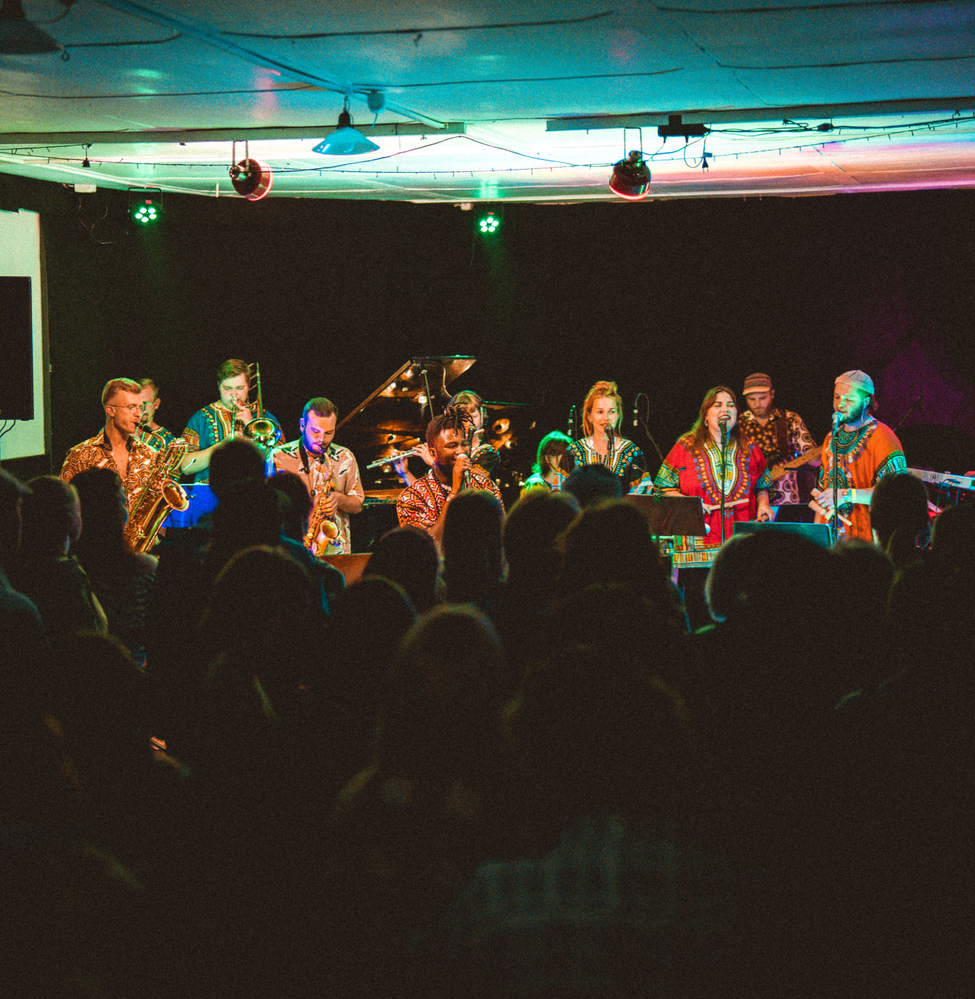
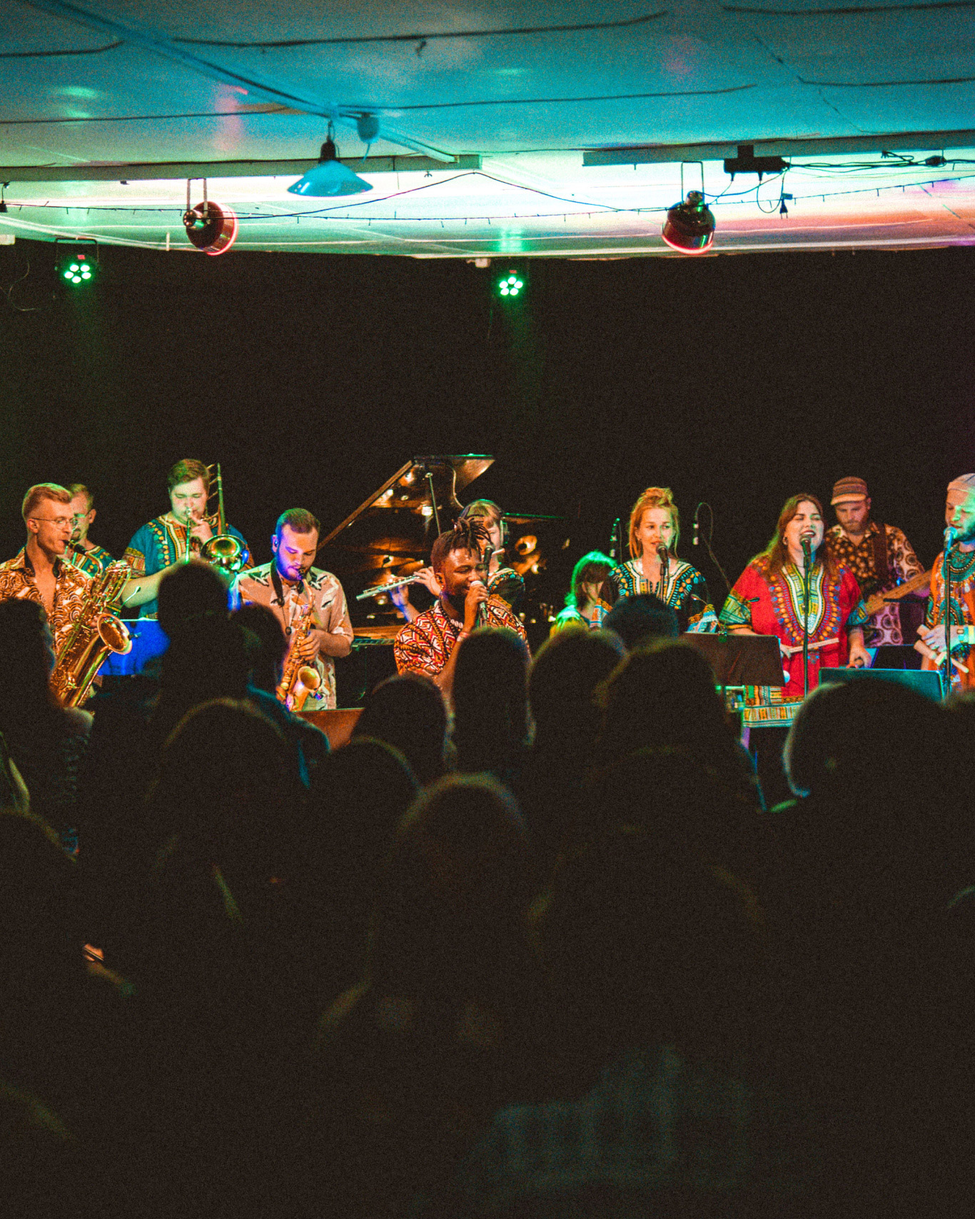
gallery update

diff --git a/v3/css/style.scss b/v3/css/style.scss
@@ -2,7 +2,7 @@
 
 @import url('https://fonts.googleapis.com/css2?family=Noto+Serif:wght@400;700&display=swap');
 
-$color-whiteMana: #EFF0EB; //#EBEFDC
+$color-notThatWhite: #EFF0EB; //#EBEFDC
 $color-orange: #F16142;
 $color-liquen: #10BAAD;
 $color-white: #FAFAFA;
@@ -22,7 +22,7 @@ body {
     padding: 0;    
     // background: url('../assets/dust_scratches.png') repeat;
     // background-blend-mode: multiply;
-    background-color: $color-whiteMana;
+    background-color: $color-notThatWhite;
     
     &#splash {
         overflow: hidden;
@@ -127,7 +127,7 @@ a {
     // margin: 0 auto;
     background: $color-black;
     border: 1px solid $color-black;
-    border-radius: 8px;
+    border-radius: 13px;
     color: $color-white;
     cursor: pointer;
     letter-spacing: 0.05em;  
@@ -135,7 +135,7 @@ a {
     padding: 12px 5%;
     
     &:hover {
-        color: $color-whiteMana;
+        color: $color-notThatWhite;
         background: $color-orange;
         border-color: $color-orange;
         -webkit-transition: all 250ms ease-out;
@@ -228,7 +228,7 @@ footer {
     }
 
     p, span {
-        color: $color-whiteMana;
+        color: $color-notThatWhite;
     }
 
     .locations {
@@ -313,10 +313,40 @@ section {
         
         &.gallery {
             position: relative;
-            overflow: hidden;
+            overflow: hidden;            
 
-            img.cover {
+            .galleryItem {
+                min-height: 520px;
                 width: 100%;
+                height: 100%;
+
+                background-size: cover;
+                background-repeat: no-repeat;
+
+                display: flex;
+                justify-content: center;
+                align-items: flex-end;
+                padding-bottom: 40px;;
+
+                .caption {
+                    color: $color-notThatWhite;
+                    display: flex;
+                    flex-direction: column;
+                    gap: 8px;
+
+                    span {
+                        font-family: 'Inter', helvetica, sans-serif;
+                        font-weight: 300;
+                        font-size: 16px;
+                        line-height: 19px;
+                        text-align: center;
+                        letter-spacing: 0.18em;
+                        
+                        &.event {
+                            font-weight: 700;
+                        }
+                    }
+                }
             }
         }
     }
@@ -338,10 +368,12 @@ section {
             }
 
             &.gallery {
-                img.cover {
-                    width: auto;
-                    height: 100vh;
-                    // margin: 0 -5%;
+                .galleryItem {
+                    min-height: 854px;
+
+                    .caption {
+                        flex-direction: row;
+                    }
                 }
             }
         }
@@ -361,18 +393,19 @@ section.hero {
     }
 
     h2, p {
-        color: $color-whiteMana; 
+        color: $color-notThatWhite; 
         text-align: center;       
     }    
 
     .button {
         color: $color-black;
-        background: $color-whiteMana;
-        border-color: $color-whiteMana;
+        background: $color-notThatWhite;
+        border-color: $color-notThatWhite;
     }
 
     @media screen and (min-width: 600px) {
-        background-image: linear-gradient(0deg, rgba(0, 0, 0, 0.36), rgba(0, 0, 0, 0.36)), url('/v3/assets/studio_landscape.jpg');
+        background: radial-gradient(50% 50% at 50% 50%, rgba(16, 16, 15, 0.56) 42%, rgba(16, 16, 15, 0.09) 75%), url('/v3/assets/studio_landscape.jpg');
+        background-size: cover;
         
         p {
             width: 70%;
@@ -396,7 +429,7 @@ section.color {
     box-shadow: inset 0px 4px 36px rgba(16, 16, 15, 0.18);
 
     h2, p {
-        color: $color-whiteMana;
+        color: $color-notThatWhite;
     }
 
     h5 {
@@ -405,14 +438,14 @@ section.color {
 
     .button {
         color: $color-orange;
-        background: $color-whiteMana;
-        border-color: $color-whiteMana;
+        background: $color-notThatWhite;
+        border-color: $color-notThatWhite;
 
         &:hover {
-            color: $color-whiteMana;
+            color: $color-notThatWhite;
             background: rgba(255,255,255,.09);
-            border-color: $color-whiteMana;
-            box-shadow: 0px 0px 4px $color-whiteMana;
+            border-color: $color-notThatWhite;
+            box-shadow: 0px 0px 4px $color-notThatWhite;
             backdrop-filter: blur(2px);
         }
     }

diff --git a/v3/index.html b/v3/index.html
@@ -21,8 +21,8 @@
                 <div class="col center">
                     <img class="logo" src="/v3/assets/logo_sama_no_text_white.svg"/>
                     <h2>samasama is open</h2>
-                    <p class="">A space to turn your ideas into reallity.<br>Host your event in the living room of Viljandi.</p>
-                    <a href="#" target="_blank" class="button">Book now!</a>
+                    <p class="">A space to turn your ideas into reallity. Host your event in the living room of Viljandi.</p>
+                    <a href="mailto:jose@samasama.studio" target="_blank" class="button">Book now!</a>
                 </div>      
             </section>
             
@@ -39,12 +39,18 @@
                         <br><br>
                         Music and audio equipment available for renting. 
                     </p>
-                    <a href="#" target="_blank" class="button">Book an event</a>
+                    <a href="mailto:jose@samasama.studio" target="_blank" class="button">Book an event</a>
                 </div>            
-                <div class="col right gallery">
-                    <img class="cover" :src="currentGalleryItem"/>
-                        <button class="arrow prev" @click="showGallery(-1)"><img src="assets/icons/leftArrow.svg"/></button>
-                        <button class="arrow next" @click="showGallery(1)"><img src="assets/icons/rightArrow.svg"/></button>
+                <div class="col right gallery">                    
+                    <div class="galleryItem"  :style="{ backgroundImage: 'url(' + currentGalleryItem.image + ')'}">
+                        <div class="caption">
+                            <span class="client">{{ currentGalleryItem.client }}</span>
+                            <span class="event">{{ currentGalleryItem.event }}</span> 
+                        </div>
+                        <!-- <img class="cover" :src="currentGalleryItem.image"/> -->
+                    </div>
+                    <button class="arrow prev" @click="showGallery(-1)"><img src="assets/icons/leftArrow.svg"/></button>
+                    <button class="arrow next" @click="showGallery(1)"><img src="assets/icons/rightArrow.svg"/></button>
                 </div>
             </section>
             
@@ -62,14 +68,15 @@
                         <br><br>
                         Check out our top projects.
                     </p>
-                    <a href="#" target="_blank" class="button">Let’s work together</a>
+                    <a href="mailto:hello@samasama.studio" target="_blank" class="button">Let’s work together</a>
                 </div>            
             </section>
             
             <section class="portfolio">
                 <!-- <div class="project" v-for="item in projects"> -->
                     <div class="col left gallery">
-                        <img class="cover" :src="currentProject.image"/>
+                        <div class="galleryItem"  :style="{ backgroundImage: 'url(' + currentProject.image + ')'}"></div>
+
                         <button class="arrow prev" @click="showProject(-1)"><img src="assets/icons/leftArrow.svg"/></button>
                         <button class="arrow next" @click="showProject(1)"><img src="assets/icons/rightArrow.svg"/></button>
                     </div>
@@ -101,7 +108,7 @@
                         <p>De las Margaritas 6195<br>Ciudad Jardín, Argentina<br>🇦🇷</p>
                     </div>
                 </div>
-                <span class="copyright">Copyright &copy; 2022, with love by Sama Sama</span>
+                <span class="copyright">&copy; with love by Sama Sama</span>
             </footer>
         
         </div>

diff --git a/v3/css/style.css b/v3/css/style.css
@@ -111,7 +111,7 @@ a:focus {
   text-align: center;
   background: #10100F;
   border: 1px solid #10100F;
-  border-radius: 8px;
+  border-radius: 13px;
   color: #FAFAFA;
   cursor: pointer;
   letter-spacing: 0.05em;
@@ -347,8 +347,47 @@ section .col.gallery {
   overflow: hidden;
 }
 
-section .col.gallery img.cover {
+section .col.gallery .galleryItem {
+  min-height: 520px;
   width: 100%;
+  height: 100%;
+  background-size: cover;
+  background-repeat: no-repeat;
+  display: -webkit-box;
+  display: -ms-flexbox;
+  display: flex;
+  -webkit-box-pack: center;
+      -ms-flex-pack: center;
+          justify-content: center;
+  -webkit-box-align: end;
+      -ms-flex-align: end;
+          align-items: flex-end;
+  padding-bottom: 40px;
+}
+
+section .col.gallery .galleryItem .caption {
+  color: #EFF0EB;
+  display: -webkit-box;
+  display: -ms-flexbox;
+  display: flex;
+  -webkit-box-orient: vertical;
+  -webkit-box-direction: normal;
+      -ms-flex-direction: column;
+          flex-direction: column;
+  gap: 8px;
+}
+
+section .col.gallery .galleryItem .caption span {
+  font-family: 'Inter', helvetica, sans-serif;
+  font-weight: 300;
+  font-size: 16px;
+  line-height: 19px;
+  text-align: center;
+  letter-spacing: 0.18em;
+}
+
+section .col.gallery .galleryItem .caption span.event {
+  font-weight: 700;
 }
 
 @media screen and (min-width: 600px) {
@@ -369,9 +408,14 @@ section .col.gallery img.cover {
     width: 40%;
     padding: 0 5%;
   }
-  section .col.gallery img.cover {
-    width: auto;
-    height: 100vh;
+  section .col.gallery .galleryItem {
+    min-height: 854px;
+  }
+  section .col.gallery .galleryItem .caption {
+    -webkit-box-orient: horizontal;
+    -webkit-box-direction: normal;
+        -ms-flex-direction: row;
+            flex-direction: row;
   }
 }
 
@@ -400,8 +444,8 @@ section.hero .button {
 
 @media screen and (min-width: 600px) {
   section.hero {
-    background-image: -webkit-gradient(linear, left bottom, left top, from(rgba(0, 0, 0, 0.36)), to(rgba(0, 0, 0, 0.36))), url("/v3/assets/studio_landscape.jpg");
-    background-image: linear-gradient(0deg, rgba(0, 0, 0, 0.36), rgba(0, 0, 0, 0.36)), url("/v3/assets/studio_landscape.jpg");
+    background: radial-gradient(50% 50% at 50% 50%, rgba(16, 16, 15, 0.56) 42%, rgba(16, 16, 15, 0.09) 75%), url("/v3/assets/studio_landscape.jpg");
+    background-size: cover;
   }
   section.hero p {
     width: 70%;

diff --git a/v3/js/script.js b/v3/js/script.js
@@ -12,10 +12,26 @@ const VueApp = {
             currentGalleryIndex: 0,
             currentGalleryItem: '',
             gallery: [
-                '/v3/assets/gallery/0.jpg',
-                '/v3/assets/gallery/1.jpg',
-                '/v3/assets/gallery/2.jpg',
-                '/v3/assets/gallery/3.jpg',
+                {
+                    image: '/v3/assets/gallery/0.jpg',
+                    client: 'GJ & The Evocations',
+                    event: 'live concert'
+                },
+                {
+                    image: '/v3/assets/gallery/1.jpg',
+                    client: 'Comedy Estonia',
+                    event: 'show'
+                },
+                {
+                    image: '/v3/assets/gallery/2.jpg',
+                    client: 'The Crosslegs',
+                    event: 'album recording'
+                },
+                {
+                    image: '/v3/assets/gallery/3.jpg',
+                    client: 'Araukaaria',
+                    event: 'live concert'
+                }
             ],
             currentProjectIndex: 0,
             currentProject: {
